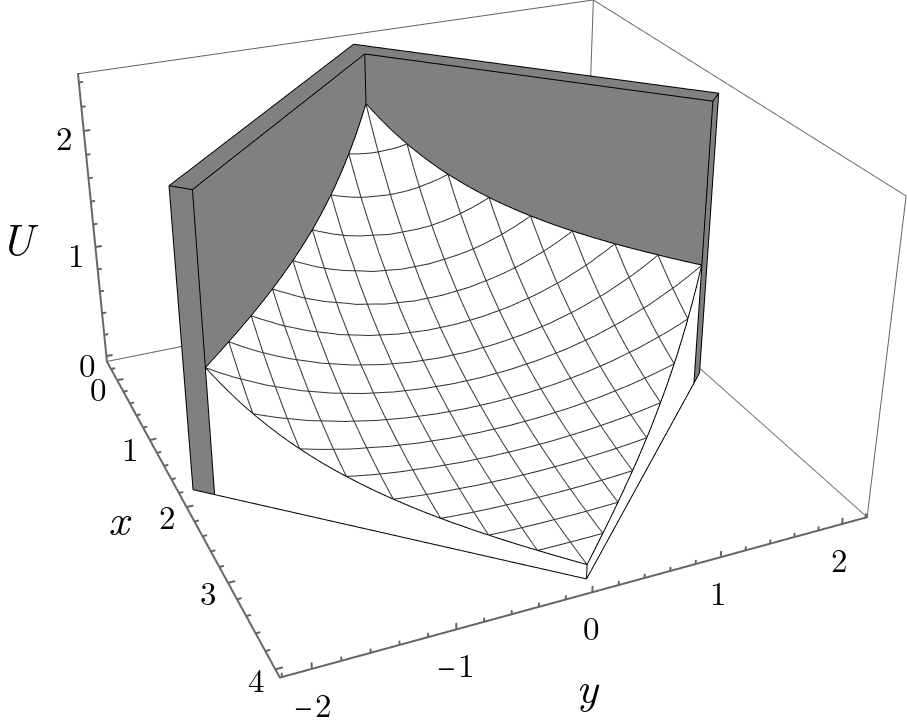
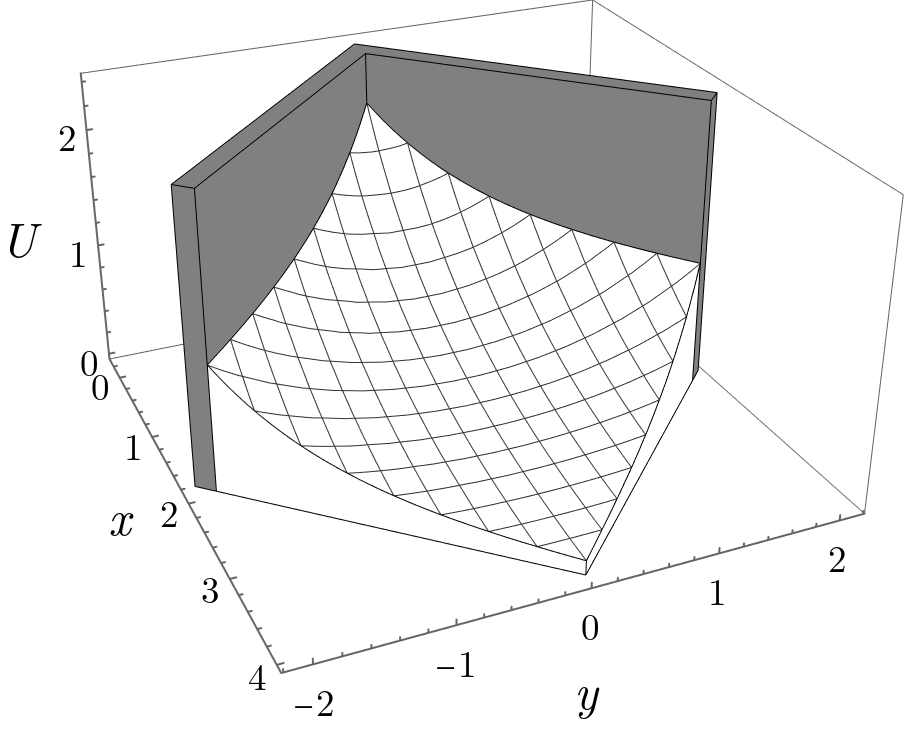
Moderate: consistentise Helmholtz domain & solution figures
See yawnoc/phd-code@427a349b80ccd

diff --git a/moderate.tex b/moderate.tex
@@ -115,14 +115,13 @@ together with the constant-flux condition
 on the boundary.
 
 \begin{figure}
-  \newcommand*{\solutionfigurewidth}{8cm}
-  \begin{minipage}[t]{0.95\textwidth - \solutionfigurewidth}
+  \begin{minipage}[t]{0.4\textwidth}
     \centredfigurecontent[width=0.8\textwidth]{helmholtz-wedge-domain}{
       Right-angled wedge domain.
     }
   \end{minipage}
   \hfill
-  \begin{minipage}[t]{\solutionfigurewidth}
+  \begin{minipage}[t]{0.55\textwidth}
     \centredfigurecontent{helmholtz-wedge-solution}{
       Known Helmholtz solution~(\ref{eq:scaled-helmholtz-solution})
       in a right-angled wedge.
